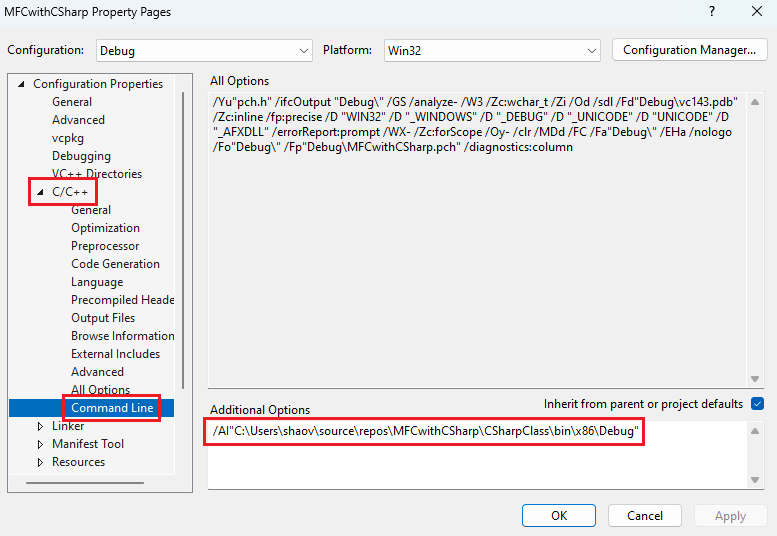
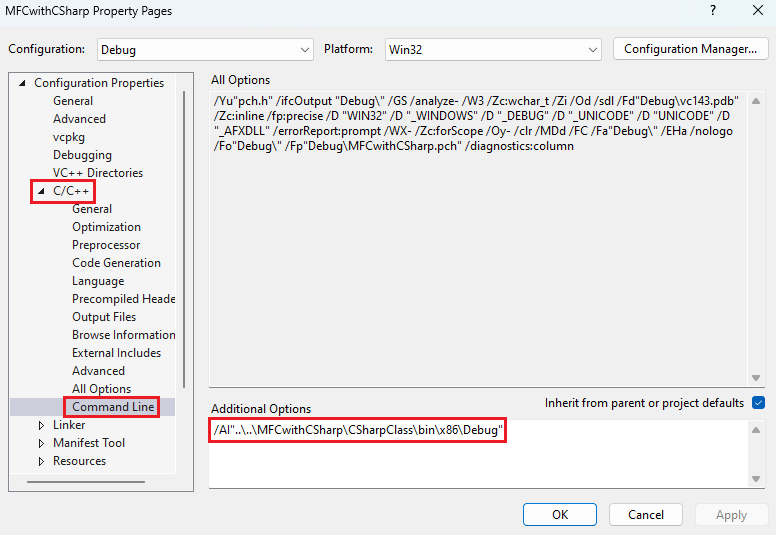
Update README to use AI relative paths

diff --git a/README.md b/README.md
@@ -2,8 +2,6 @@
 
 This article serves as a reference to using your .NET C# library in a native C++ project via C++/CLI in Visual Studio 2022. You can follow even if you are using earlier Visual Studio because the steps are mostly the same. It is initially written to answer a question on CodeProject's QnA. Your C++ project does not have to be MFC to follow the steps described here; it can be console or other types where you can ignore step 7 to add buttons to MFC dialog because it does not apply to your C++ project type. **Note:** This example does not cover hosting C# UI element in C++ UI; That is a complex topic.
 
-**Note:** The C++ project sample does not build successfully out of the box: you have to follow step 6 to amend the absolute C# dll path given to the `/AI` switch.
-
 For simplicity, we are going to use this simple C# class with `Add` and `AddList` methods in our C++ project.
 
 ```csharp
@@ -58,7 +56,12 @@ Check the C# project for the build dependency.
 
 ![05_config_mgr](img/05_config_mgr.png)
 
-**Step 6:** Close the Configuration Manager. Next, we add the `/AI` switch to the C++ compiler. `/AI` switch tells the C++ compiler where to find your C# dll. Do not use my path here because it will be certainly different from yours. You must enter 4 different paths for Debug x86, Debug x64, Release x86 and Release x64.
+**Step 6:** Close the Configuration Manager. Next, we add the `/AI` switch to the C++ compiler. `/AI` switch tells the C++ compiler where to find your C# dll. You must enter 4 different paths for Debug x86, Debug x64, Release x86 and Release x64. The paths can be relative. See below.
+
+* /AI "..\..\MFCwithCSharp\CSharpClass\bin\x86\Debug"
+* /AI "..\..\MFCwithCSharp\CSharpClass\bin\x64\Debug" 
+* /AI "..\..\MFCwithCSharp\CSharpClass\bin\x86\Release" 
+* /AI "..\..\MFCwithCSharp\CSharpClass\bin\x64\Release" 
 
 ![06_ai_switch](img/06_ai_switch.png)
 
@@ -107,6 +110,6 @@ void CMFCwithCSharpDlg::OnBnClickedBtnAddList()
 }
 ```
 
-Build your C++ project and the C# project automatically builds first because of the build dependency set in step 4. Click the "Add" or "Add List" button. Make sure it does not crash and the result is correct.
+Build your C++ project and the C# project automatically builds first because of the build dependency set in step 4. Click the "Add" or "Add List" button. Make sure it does not crash and the result is correct. If you encounter the error of "C# dll cannot be found" on customer computer, you need to copy the C# dll to the C++ executable folder.
 
 That's all for the example. Hopefully, you can use your C# library in your C++ project. Your next step is to master C++/CLI.
